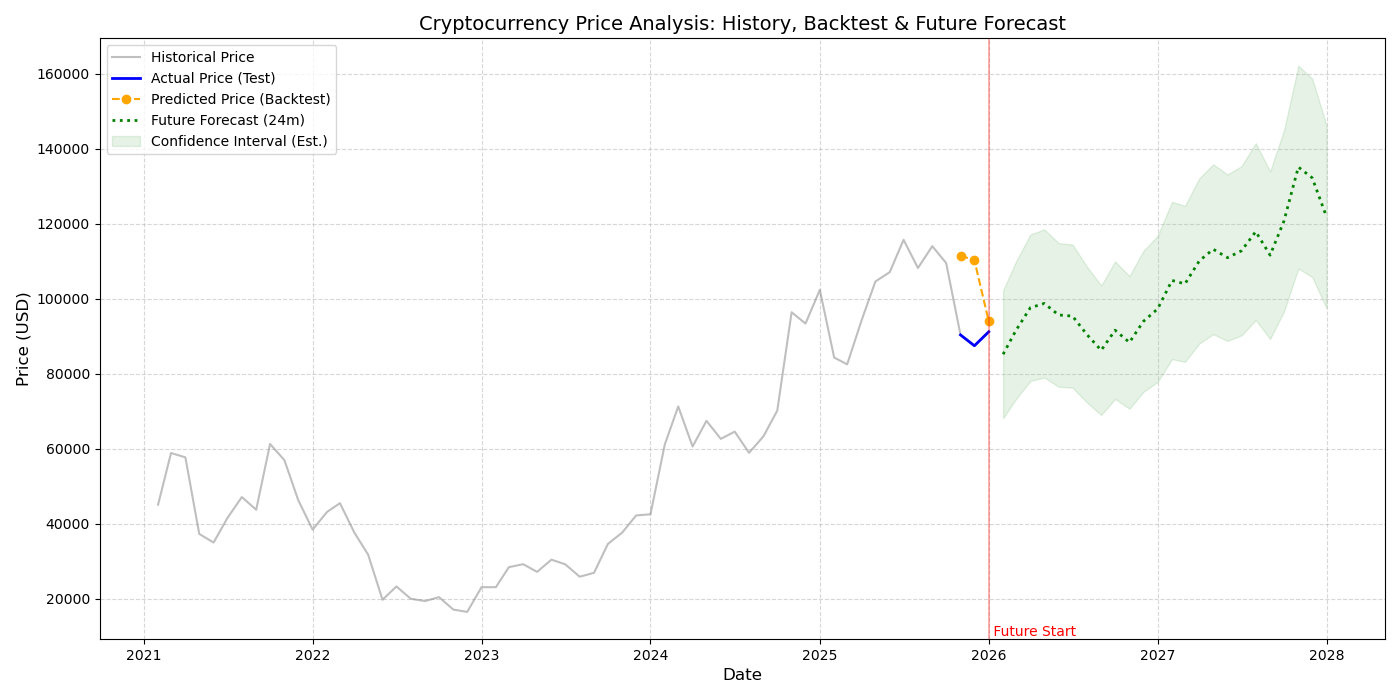
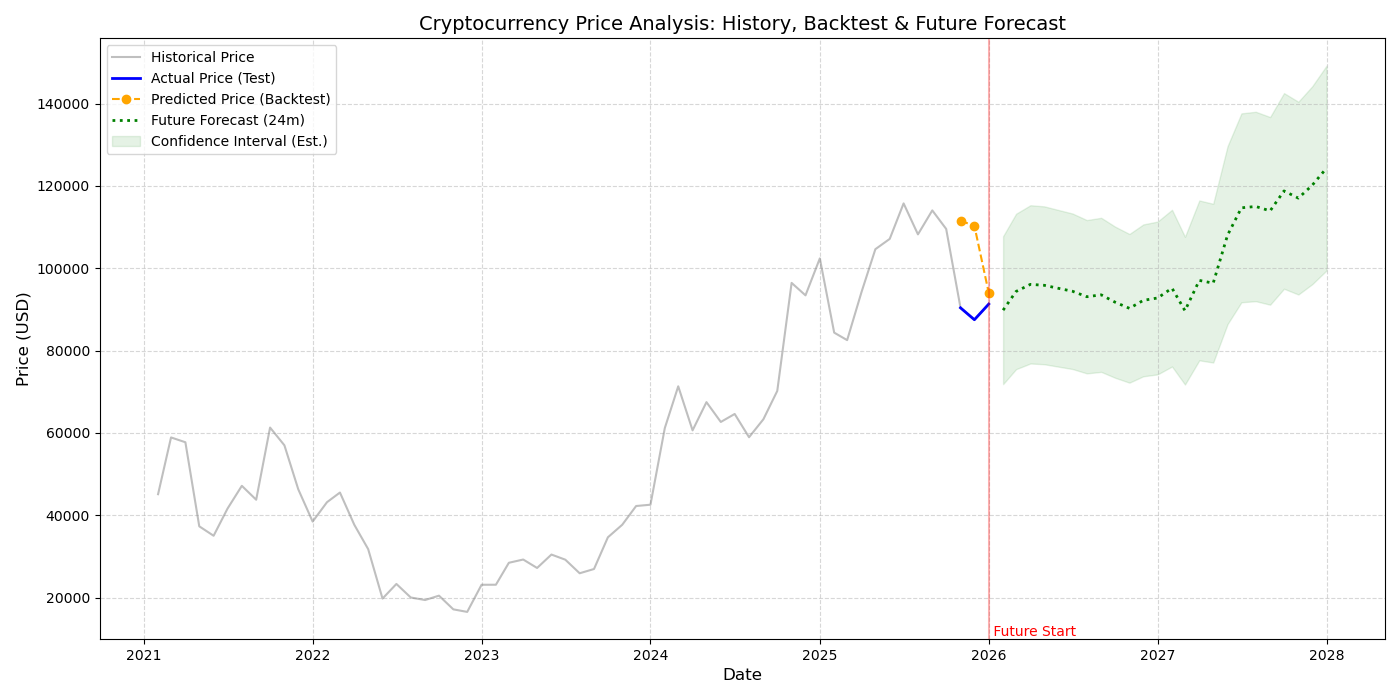
end version

diff --git a/src/utils/config.py b/src/utils/config.py
@@ -1,35 +1,48 @@
 """
-Global configuration file.
-Store API keys, file paths, and global parameters here.
+Global configuration file for CryptoPricePredict.
+Modify these parameters to customize your analysis.
 """
 
 import os
 
-# ======================
-# API CONFIGURATION
-# ======================
-ALPHA_VANTAGE_API_KEY = os.getenv("ALPHA_VANTAGE_API_KEY", "YOUR_API_KEY")
-
-# ======================
-# DATA CONFIGURATION
-# ======================
-SYMBOL = "BTC"
+# =============================================================================
+# 1. ASSET CONFIGURATION
+# =============================================================================
+# Change SYMBOL to any crypto ticker (e.g., "ETH", "SOL", "ADA")
+SYMBOL = "BTC" 
 MARKET = "USD"
 
-RAW_DATA_PATH = "data/raw/btc_monthly.json"
-PROCESSED_DATA_PATH = "data/processed/btc_monthly.csv"
+# =============================================================================
+# 2. FORECAST & BACKTEST CONFIGURATION
+# =============================================================================
+# How many months to predict into the future
+FORECAST_MONTHS = 24 
 
-# ======================
-# MODEL CONFIGURATION
-# ======================
+# How many recent months to use for testing the model's accuracy
+TEST_SIZE_MONTHS = 3 
+
+# How many months of history to show in the final chart
+VISUALIZATION_HISTORY_MONTHS = 60 
+
+# =============================================================================
+# 3. MODEL SELECTION
+# =============================================================================
+# Available models: "RandomForest", "LinearRegression", "XGBoost" (if installed)
+# Note: "RandomForest" is recommended for its robustness.
+MODEL_TYPE = "RandomForest" 
+
+# Seed for reproducibility
 RANDOM_STATE = 42
-TEST_SIZE_MONTHS = 3
-FORECAST_MONTHS = 24
-VISUALIZATION_HISTORY_MONTHS = 60
 
-# ======================
-# FEATURE CONFIGURATION
-# ======================
-MA_WINDOWS = [3, 6]
-RSI_WINDOW = 6
-BB_WINDOW = 10
+# =============================================================================
+# 4. FEATURE ENGINEERING (Technical Indicators)
+# =============================================================================
+MA_WINDOWS = [3, 6]  # Moving Average windows
+RSI_WINDOW = 6       # Relative Strength Index period
+BB_WINDOW = 10       # Bollinger Bands period
+
+# =============================================================================
+# 5. FILE PATHS
+# =============================================================================
+RAW_DATA_PATH = f"data/raw/{SYMBOL.lower()}_monthly.csv"
+PROCESSED_DATA_PATH = f"data/processed/{SYMBOL.lower()}_monthly.csv"

diff --git a/src/models/train_ml.py b/src/models/train_ml.py
@@ -1,42 +1,50 @@
 """
-Train traditional machine learning models.
+Train machine learning models using a factory pattern.
 """
 
 import pandas as pd
 from sklearn.ensemble import RandomForestRegressor
+from sklearn.linear_model import LinearRegression
 from sklearn.metrics import mean_absolute_error
 from src.utils.config import (
     PROCESSED_DATA_PATH,
     RANDOM_STATE,
-    TEST_SIZE_MONTHS
+    TEST_SIZE_MONTHS,
+    MODEL_TYPE
 )
 
+def get_model():
+    """Model Factory: Returns the model specified in config.py."""
+    if MODEL_TYPE == "RandomForest":
+        return RandomForestRegressor(n_estimators=200, random_state=RANDOM_STATE)
+    elif MODEL_TYPE == "LinearRegression":
+        return LinearRegression()
+    else:
+        print(f"Unknown model type: {MODEL_TYPE}. Defaulting to RandomForest.")
+        return RandomForestRegressor(n_estimators=200, random_state=RANDOM_STATE)
 
-def train_random_forest():
-    """Train Random Forest model for price prediction."""
+def train_model():
+    """Train the selected model and perform backtesting."""
     df = pd.read_csv(PROCESSED_DATA_PATH, index_col=0, parse_dates=True)
 
     X = df.drop(columns=["close"])
     y = df["close"]
 
+    # Split data chronologically
     X_train = X[:-TEST_SIZE_MONTHS]
     X_test = X[-TEST_SIZE_MONTHS:]
     y_train = y[:-TEST_SIZE_MONTHS]
     y_test = y[-TEST_SIZE_MONTHS:]
 
-    model = RandomForestRegressor(
-        n_estimators=200,
-        random_state=RANDOM_STATE
-    )
-
+    model = get_model()
     model.fit(X_train, y_train)
+    
     preds = model.predict(X_test)
-
+    
     mae = mean_absolute_error(y_test, preds)
-    print(f"MAE: {mae:.2f}")
+    print(f"Model: {MODEL_TYPE} | Backtest MAE: {mae:.2f}")
 
     return model, X_test, y_test, preds
 
-
 if __name__ == "__main__":
-    train_random_forest()
+    train_model()

diff --git a/src/main.py b/src/main.py
@@ -13,7 +13,7 @@ if project_root not in sys.path:
 
 from src.data.fetch_data import fetch_monthly_crypto_data
 from src.data.preprocess import preprocess
-from src.models.train_ml import train_random_forest
+from src.models.train_ml import train_model
 from src.models.predict import forecast_future
 from src.visualization.plot_results import plot_comprehensive_results
 from src.utils.config import PROCESSED_DATA_PATH
@@ -26,7 +26,7 @@ def main():
     preprocess()
 
     print("Step 3: Training model & Backtesting...")
-    model, X_test, y_test, test_preds = train_random_forest()
+    model, X_test, y_test, test_preds = train_model()
     
     # Load full processed data for visualization
     df_processed = pd.read_csv(PROCESSED_DATA_PATH, index_col=0, parse_dates=True)

diff --git a/README.md b/README.md
@@ -1,70 +1,68 @@
-# 📊 CryptoPricePredict: Advanced Forecasting Framework
+# 📊 CryptoPricePredict: Customization & Research Guide
 
-This project is a comprehensive Machine Learning pipeline designed for cryptocurrency price analysis, backtesting, and future forecasting. It is optimized for academic use in seminar papers and research projects.
-
----
-
-## 🚀 Quick Start for macOS
-
-1. **Setup Environment**:
-   ```bash
-   conda create -n crypto-ml python=3.11 -y
-   conda activate crypto-ml
-   pip install yfinance pandas scikit-learn matplotlib pyyaml requests
-   ```
-
-2. **Run the Pipeline**:
-   ```bash
-   python3 src/main.py
-   ```
+This framework is designed for high flexibility, allowing you to easily swap assets, adjust forecasting horizons, and experiment with different machine learning models.
 
 ---
 
-## ⚙ Adjustable Parameters
+## 🛠 How to Customize Your Analysis
 
-You can customize the behavior of the model and visualization by editing `src/utils/config.py`.
+All primary customizations are handled within `src/utils/config.py`. You do **not** need to modify the core logic in most cases.
 
-### 1. Data & Asset Configuration
-*   `SYMBOL`: The cryptocurrency ticker (default: `"BTC"`).
-*   `MARKET`: The base currency (default: `"USD"`).
-*   `RAW_DATA_PATH`: Location of the downloaded raw data.
+### 1. Change the Cryptocurrency
+To predict a different coin (e.g., Ethereum), change the `SYMBOL` parameter:
+```python
+# src/utils/config.py
+SYMBOL = "ETH"  # Options: "BTC", "ETH", "SOL", "ADA", etc.
+```
 
-### 2. Model & Forecast Configuration
-*   `TEST_SIZE_MONTHS`: Number of recent months used for backtesting (default: `3`).
-*   `FORECAST_MONTHS`: Number of months to predict into the future (default: `24`).
-*   `RANDOM_STATE`: Seed for reproducibility (default: `42`).
+### 2. Adjust the Forecast Duration
+To change how many months into the future you want to predict:
+```python
+# src/utils/config.py
+FORECAST_MONTHS = 12  # Predict 1 year ahead
+```
 
-### 3. Visualization Configuration
-*   `VISUALIZATION_HISTORY_MONTHS`: Number of historical months to show in the final plot (default: `60`).
+### 3. Switch the Prediction Model
+You can experiment with different algorithms by changing `MODEL_TYPE`:
+```python
+# src/utils/config.py
+MODEL_TYPE = "LinearRegression"  # Options: "RandomForest", "LinearRegression"
+```
+*   **RandomForest**: Best for capturing complex, non-linear market patterns.
+*   **LinearRegression**: Best for identifying simple long-term trends.
 
-### 4. Technical Indicators (Feature Engineering)
-*   `MA_WINDOWS`: List of windows for Moving Averages (e.g., `[3, 6]`).
-*   `RSI_WINDOW`: Period for Relative Strength Index (default: `6`).
-*   `BB_WINDOW`: Period for Bollinger Bands (default: `10`).
-
----
-
-## 📂 Project Modules
-
-*   **`src/data/fetch_data.py`**: Handles automated data retrieval from Yahoo Finance.
-*   **`src/data/preprocess.py`**: Cleans data and generates technical features.
-*   **`src/models/train_ml.py`**: Trains the Random Forest model and performs backtesting.
-*   **`src/models/predict.py`**: Contains logic for multi-step future price projection.
-*   **`src/visualization/plot_results.py`**: Generates the comprehensive analysis chart.
-
----
-
-## 📈 Understanding the Output
-
-After running the script, a file named `final_forecast_results.png` will be generated. It contains:
-1.  **Historical Price (Gray)**: The long-term trend (adjustable via `VISUALIZATION_HISTORY_MONTHS`).
-2.  **Actual Price (Blue)**: The real prices during the backtest period.
-3.  **Predicted Price (Orange)**: The model's performance on known data.
-4.  **Future Forecast (Green)**: Projected prices for the next 24 months (adjustable via `FORECAST_MONTHS`).
-5.  **Confidence Interval**: Estimated range of future price movement.
+### 4. Adjust Visualization History
+To see more or less historical context in your final chart:
+```python
+# src/utils/config.py
+VISUALIZATION_HISTORY_MONTHS = 120  # Show 10 years of history
+```
 
 ---
 
-## 🛠 Technical Notes for MacBook Users
-*   **Path Issues**: The code now includes automatic path detection. You can run it from the root directory using `python3 src/main.py` without setting `PYTHONPATH`.
-*   **Dependencies**: If you are on an M1/M2/M3 Mac, ensure your terminal is running under the correct architecture (ARM64) for optimal performance with `scikit-learn`.
+## 📂 Project Structure for Your Paper
+
+When writing your seminar paper, you can refer to these modules:
+
+| Module | Purpose in Research |
+| :--- | :--- |
+| `src/data/` | **Data Collection**: Methodology for sourcing financial time-series. |
+| `src/features/` | **Feature Engineering**: Quantitative analysis using technical indicators. |
+| `src/models/` | **Algorithm Selection**: Comparison of different ML architectures. |
+| `src/evaluation/` | **Performance Metrics**: Statistical validation of model accuracy. |
+
+---
+
+## 🚀 Running the Program
+
+1.  **Activate Environment**: `conda activate crypto-ml`
+2.  **Execute**: `python3 src/main.py`
+3.  **Output**: 
+    *   `final_forecast_results.png`: The comprehensive visualization.
+    *   Terminal output: Detailed metrics (RMSE, MAPE, etc.).
+
+---
+
+## 📌 Technical Support for MacBook
+*   **M1/M2/M3 Chips**: The code is fully compatible. If you encounter a `ModuleNotFoundError`, ensure you are running the script from the root directory.
+*   **Automatic Pathing**: The script automatically detects its location, so you can run it simply with `python3 src/main.py`.
